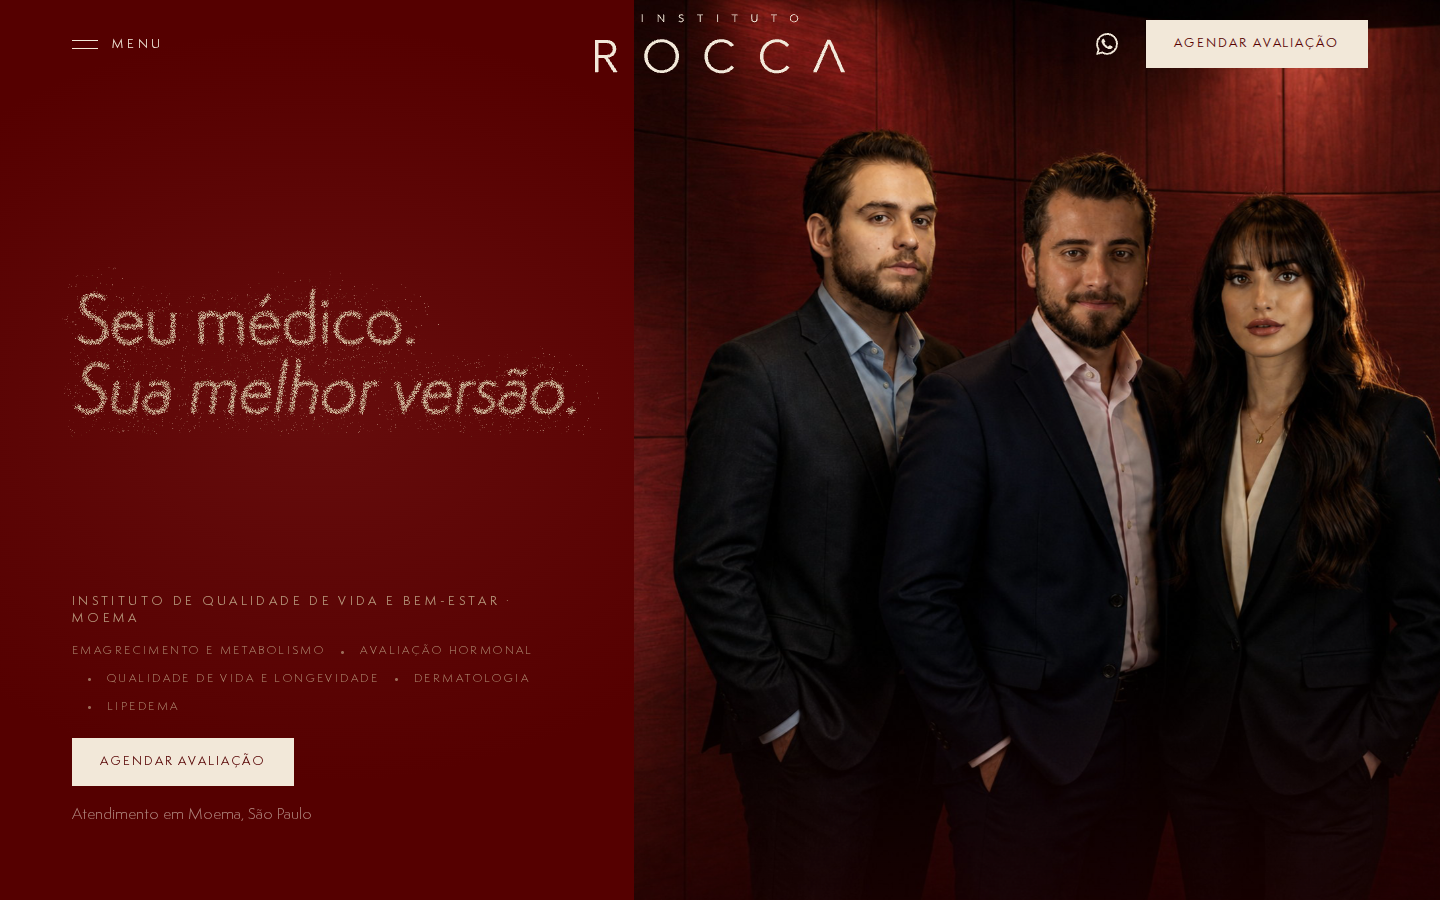
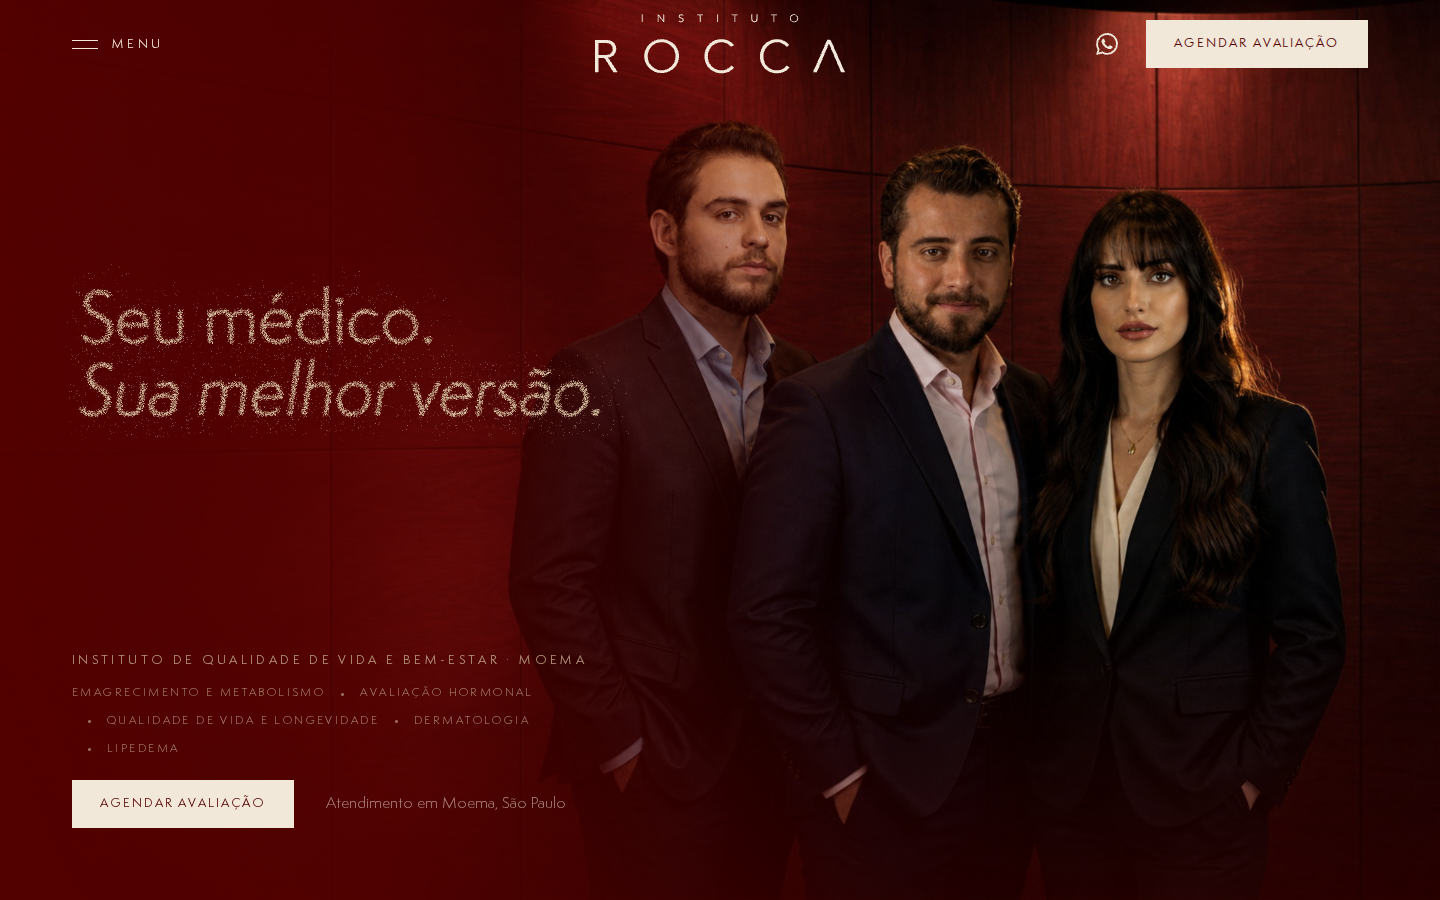
08 Retrato: foto em tela cheia, mensagem e texto na parede livre (sem dividir o hero)
Desktop: a foto cobre o hero; véu bordô à esquerda, onde ficam as partículas
e o texto, some antes dos rostos. Mobile: os três no alto, mensagem e texto
sobre o véu, abaixo dos rostos.

Claude-Session: https://claude.ai/code/session_01XdjUTf4CqwpAGPvLobMa3V

diff --git a/concepts/08-retrato/concept.css b/concepts/08-retrato/concept.css
@@ -1,24 +1,30 @@
-/* Conceito 8 — Retrato: os três médicos no hero (foto com o fundo de madeira do
-   estúdio Jacarandá, na metade direita) e, no bordô da esquerda, a mensagem
-   principal escrita em partículas (shared/letras.js, modo texto). A foto real
+/* Conceito 8 — Retrato: a foto dos três médicos (parede do estúdio Jacarandá com
+   luz vermelha) cobre o hero; na parede livre, à esquerda, a mensagem principal
+   escrita em partículas (shared/letras.js, modo texto) e os serviços, sem
+   passar sobre os rostos. A foto real
    sai do estúdio; enquanto isso, a imagem gerada no Higgsfield com os três
    (assets/img/medicos-hero.jpg) ocupa o lugar. O resto segue o conceito 2. */
 .visualmente-oculto { position: absolute; width: 1px; height: 1px; overflow: hidden; clip: rect(0 0 0 0); white-space: nowrap; }
 .hero--retrato { position: relative; min-height: 100svh; overflow: hidden; display: grid; align-items: end; background: var(--cor-bordo); }
-.hero--retrato::before { content: ""; position: absolute; inset: 0; background: radial-gradient(50% 60% at 22% 45%, rgba(110, 18, 18, .7), transparent 70%); pointer-events: none; }
-/* Zona da mensagem em partículas: a metade esquerda inteira (o canvas cobre só ela) */
-.hero__mensagem { position: absolute; left: 0; top: 0; bottom: 0; width: 44%; z-index: 2; }
-.letras__canvas { position: absolute; inset: 0; width: 100%; height: 100%; display: block; }
-/* A foto (parede do estúdio com luz vermelha) ocupa a metade direita inteira, borda reta. */
-.hero__medicos { position: absolute; right: 0; top: 0; bottom: 0; width: 56%; z-index: 1; overflow: hidden; background: var(--cor-bordo-profundo); }
-.hero__medicos img { width: 100%; height: 100%; object-fit: cover; object-position: 80% 30%; display: block; }
+/* A foto cobre o hero inteiro; o grupo fica à direita, a parede livre à esquerda recebe a mensagem e o texto. */
+.hero__medicos { position: absolute; inset: 0; z-index: 0; overflow: hidden; background: var(--cor-bordo-profundo); }
+.hero__medicos img { width: 100%; height: 100%; object-fit: cover; object-position: 78% 30%; display: block; }
 html.js .hero__medicos img { animation: retrato-entra 1.8s var(--ease-out, ease-out) both; }
 @keyframes retrato-entra { from { opacity: 0; transform: scale(1.05); } to { opacity: 1; transform: none; } }
-.hero__medicos::after { content: ""; position: absolute; inset: 0; background: linear-gradient(to top, rgba(59, 0, 0, .35) 0%, rgba(59, 0, 0, 0) 28%); pointer-events: none; }
+/* Véu: bordô denso na esquerda (onde ficam a mensagem e o texto) que some antes dos rostos; base escurecida para o texto. */
+.hero__medicos::after {
+  content: ""; position: absolute; inset: 0; pointer-events: none;
+  background:
+    linear-gradient(to right, rgba(85, 0, 0, .94) 0%, rgba(85, 0, 0, .82) 26%, rgba(85, 0, 0, .42) 46%, rgba(85, 0, 0, .06) 62%, rgba(85, 0, 0, 0) 72%),
+    linear-gradient(to top, rgba(59, 0, 0, .55) 0%, rgba(59, 0, 0, 0) 34%);
+}
+/* Zona da mensagem em partículas: a parte livre da parede (o canvas cobre só ela) */
+.hero__mensagem { position: absolute; left: 0; top: 0; bottom: 0; width: 46%; z-index: 2; }
+.letras__canvas { position: absolute; inset: 0; width: 100%; height: 100%; display: block; }
 .hero__titulo { position: absolute; width: 1px; height: 1px; overflow: hidden; clip: rect(0 0 0 0); white-space: nowrap; margin: 0; }
 .hero--estatico .hero__titulo { position: relative; width: auto; height: auto; overflow: visible; clip: auto; white-space: normal; z-index: 3; padding: 0 var(--gutter); font-weight: 300; font-size: clamp(2.2rem, 5vw, 5rem); line-height: 1.04; max-width: 12ch; }
 .hero__titulo em { font-style: italic; }
-.hero__conteudo { position: relative; z-index: 3; margin: 0; max-width: none; width: 44%; padding-bottom: clamp(48px, 8vh, 96px); display: grid; gap: .9rem; justify-items: start; }
+.hero__conteudo { position: relative; z-index: 3; margin: 0; max-width: none; width: 46%; padding-bottom: clamp(48px, 8vh, 96px); display: grid; gap: .9rem; justify-items: start; }
 .hero__acoes { display: flex; flex-wrap: wrap; gap: 1rem 2rem; align-items: center; margin-top: .4rem; }
 .hero__nota { margin: 0; color: var(--fg-2); font-size: .95rem; }
 .hero__frentes { display: flex; flex-wrap: wrap; gap: .5rem 0; margin: 0; padding: 0; list-style: none; font-size: 11px; letter-spacing: .22em; text-transform: uppercase; color: var(--cor-areia); }
@@ -27,15 +33,15 @@ html.js .hero__medicos img { animation: retrato-entra 1.8s var(--ease-out, ease-
 .hero__frentes a { text-decoration: none; border-bottom: 1px solid transparent; transition: border-color var(--dur-rapida), color var(--dur-rapida); }
 .hero__frentes a:hover, .hero__frentes a:focus-visible { color: var(--cor-creme); border-bottom-color: currentColor; }
 @media (max-width: 899.98px) {
-  /* Mobile em fluxo: foto, zona da mensagem, texto */
-  .hero--retrato { display: block; padding-top: var(--nav-altura); }
-  .hero--retrato::before { background: radial-gradient(70% 30% at 50% 58%, rgba(110, 18, 18, .7), transparent 70%); }
-  .hero__medicos { position: relative; width: 100%; right: auto; top: auto; bottom: auto; height: 44svh; }
-  .hero__medicos img { object-position: 80% 25%; }
-  .hero__medicos::after { background: linear-gradient(to top, var(--cor-bordo) 0%, rgba(85, 0, 0, 0) 26%); }
-  .hero__mensagem { position: relative; width: 100%; left: auto; top: auto; bottom: auto; height: 24svh; }
-  .hero__conteudo { width: 100%; justify-items: center; text-align: center; padding-top: 4px; padding-bottom: 40px; }
-  .hero__frentes { justify-content: center; font-size: 10px; letter-spacing: .18em; max-width: 34ch; }
+  /* Mobile: os rostos ficam no terço de cima, livres; a metade de baixo vira bordô e recebe a mensagem e o texto. */
+  .hero--retrato { min-height: max(100svh, 720px); }
+  /* a foto ocupa o alto do hero e mostra os três; a base se funde no bordô */
+  .hero__medicos { bottom: auto; height: 56%; }
+  .hero__medicos img { object-position: 70% 12%; }
+  .hero__medicos::after { background: linear-gradient(to top, rgba(85, 0, 0, 1) 0%, rgba(85, 0, 0, .92) 18%, rgba(85, 0, 0, .35) 42%, rgba(85, 0, 0, 0) 60%); }
+  .hero__mensagem { left: 0; right: 0; top: 43%; bottom: auto; width: 100%; height: 13%; }
+  .hero__conteudo { width: 100%; justify-items: center; text-align: center; padding-bottom: 36px; }
+  .hero__frentes { justify-content: center; font-size: 10px; letter-spacing: .18em; max-width: none; }
   .hero__frentes li + li::before { margin: 0 .7rem; }
   .hero__acoes { justify-content: center; }
 }
